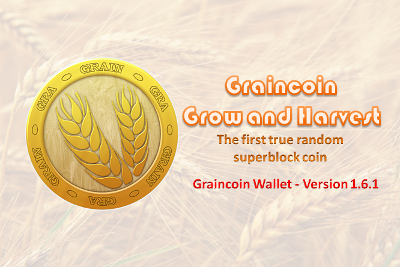
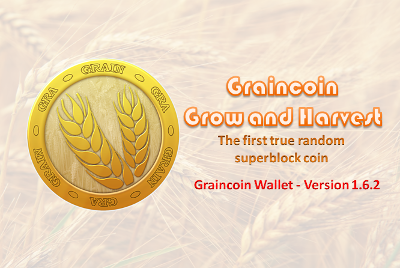
Version bump

diff --git a/src/clientversion.h b/src/clientversion.h
@@ -8,7 +8,7 @@
 // These need to be macros, as version.cpp's and bitcoin-qt.rc's voodoo requires it
 #define CLIENT_VERSION_MAJOR       1
 #define CLIENT_VERSION_MINOR       6
-#define CLIENT_VERSION_REVISION    1
+#define CLIENT_VERSION_REVISION    2
 #define CLIENT_VERSION_BUILD       0
 
 // Converts the parameter X to a string after macro replacement on X has been performed.

diff --git a/src/version.h b/src/version.h
@@ -46,7 +46,7 @@ static const int MEMPOOL_GD_VERSION = 60002;
 
 #define DISPLAY_VERSION_MAJOR       1
 #define DISPLAY_VERSION_MINOR       6
-#define DISPLAY_VERSION_REVISION    1
+#define DISPLAY_VERSION_REVISION    2
 #define DISPLAY_VERSION_BUILD       0
 
 #endif
